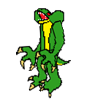
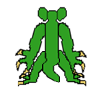
Added up/down images for LizardMan; also made it so that Explosions cannot be stunned.

diff --git a/DigIt3/src/com/dig/www/enemies/Explosion.java b/DigIt3/src/com/dig/www/enemies/Explosion.java
@@ -1,21 +1,28 @@
 package com.dig.www.enemies;
 
+import com.dig.www.character.GameCharacter;
+import com.dig.www.character.Moves;
 import com.dig.www.start.Board;
 
-public class Explosion extends Enemy{
+public class Explosion extends Enemy {
+	
 	private int boomTimer = 25;
+
 	public Explosion(int x, int y, String loc, Board owner) {
 		super(x, y, loc, owner, true, -10);
-		// TODO Auto-generated constructor stub
 	}
 
 	@Override
 	public void animate() {
-		// TODO Auto-generated method stub
 		basicAnimate();
 		boomTimer--;
 
 		if (boomTimer <= 0)
 			alive = false;
+	}
+
+	@Override
+	public void interact(Moves move, GameCharacter chr, boolean fromP) {
+
 	}
 }
